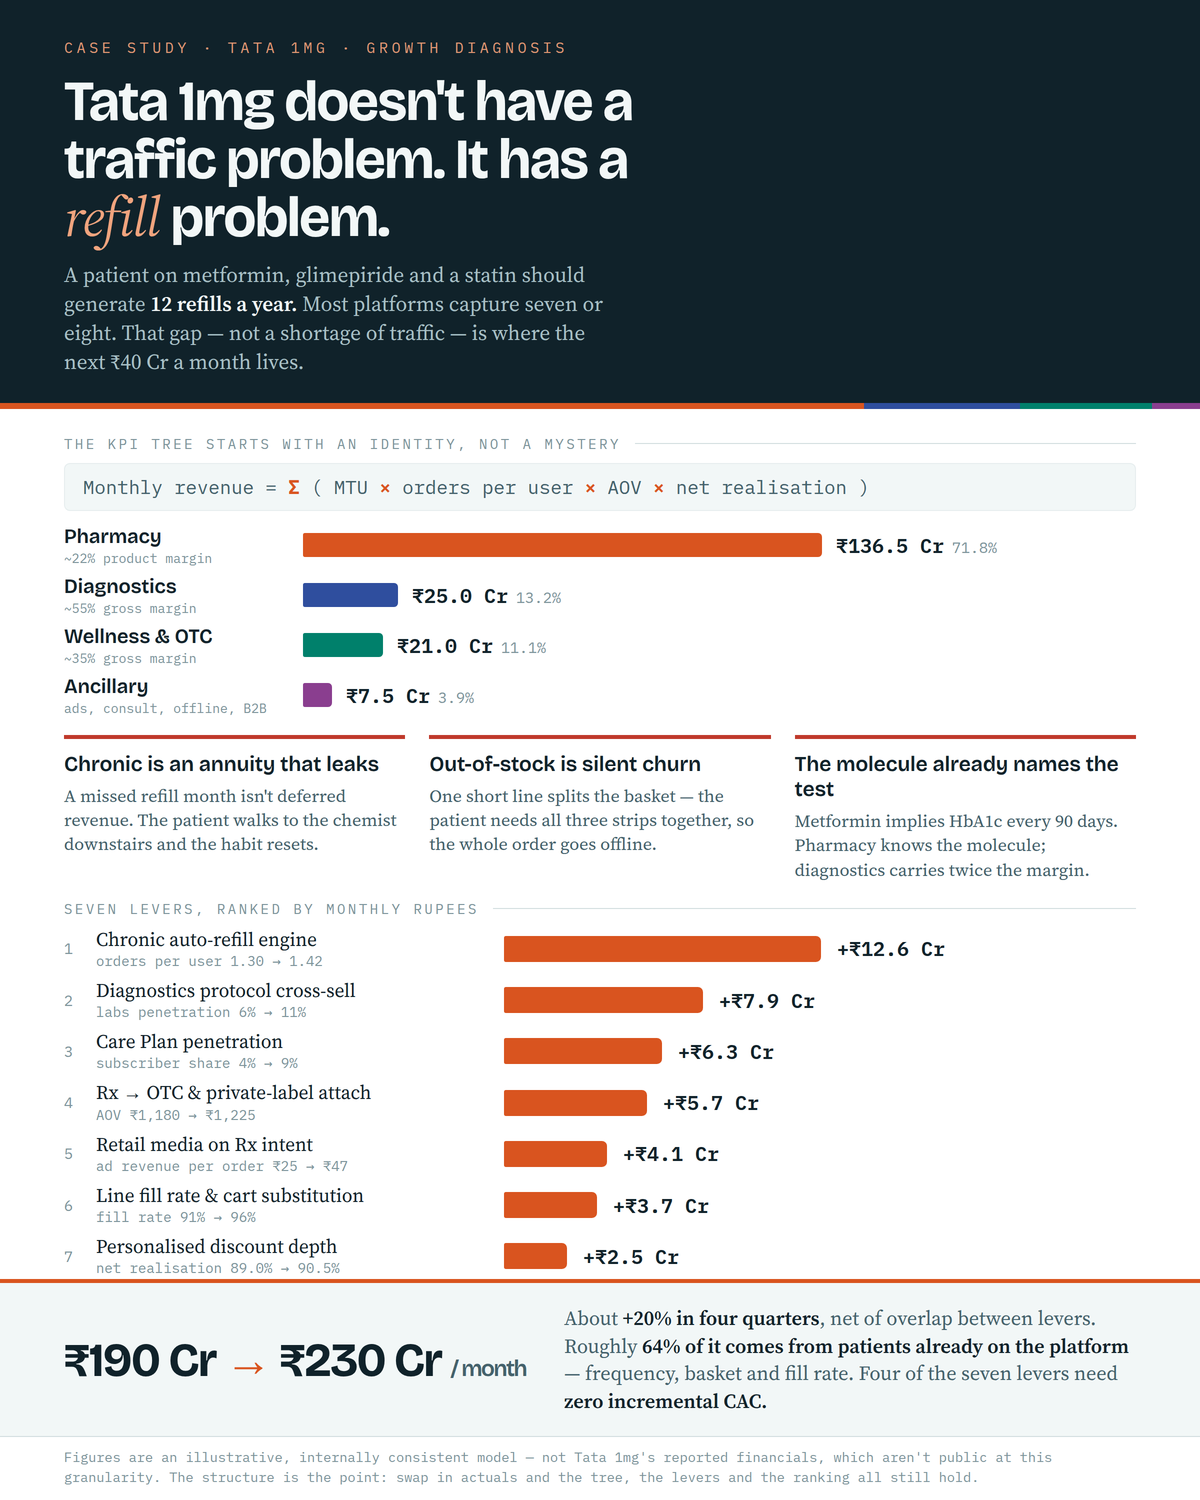
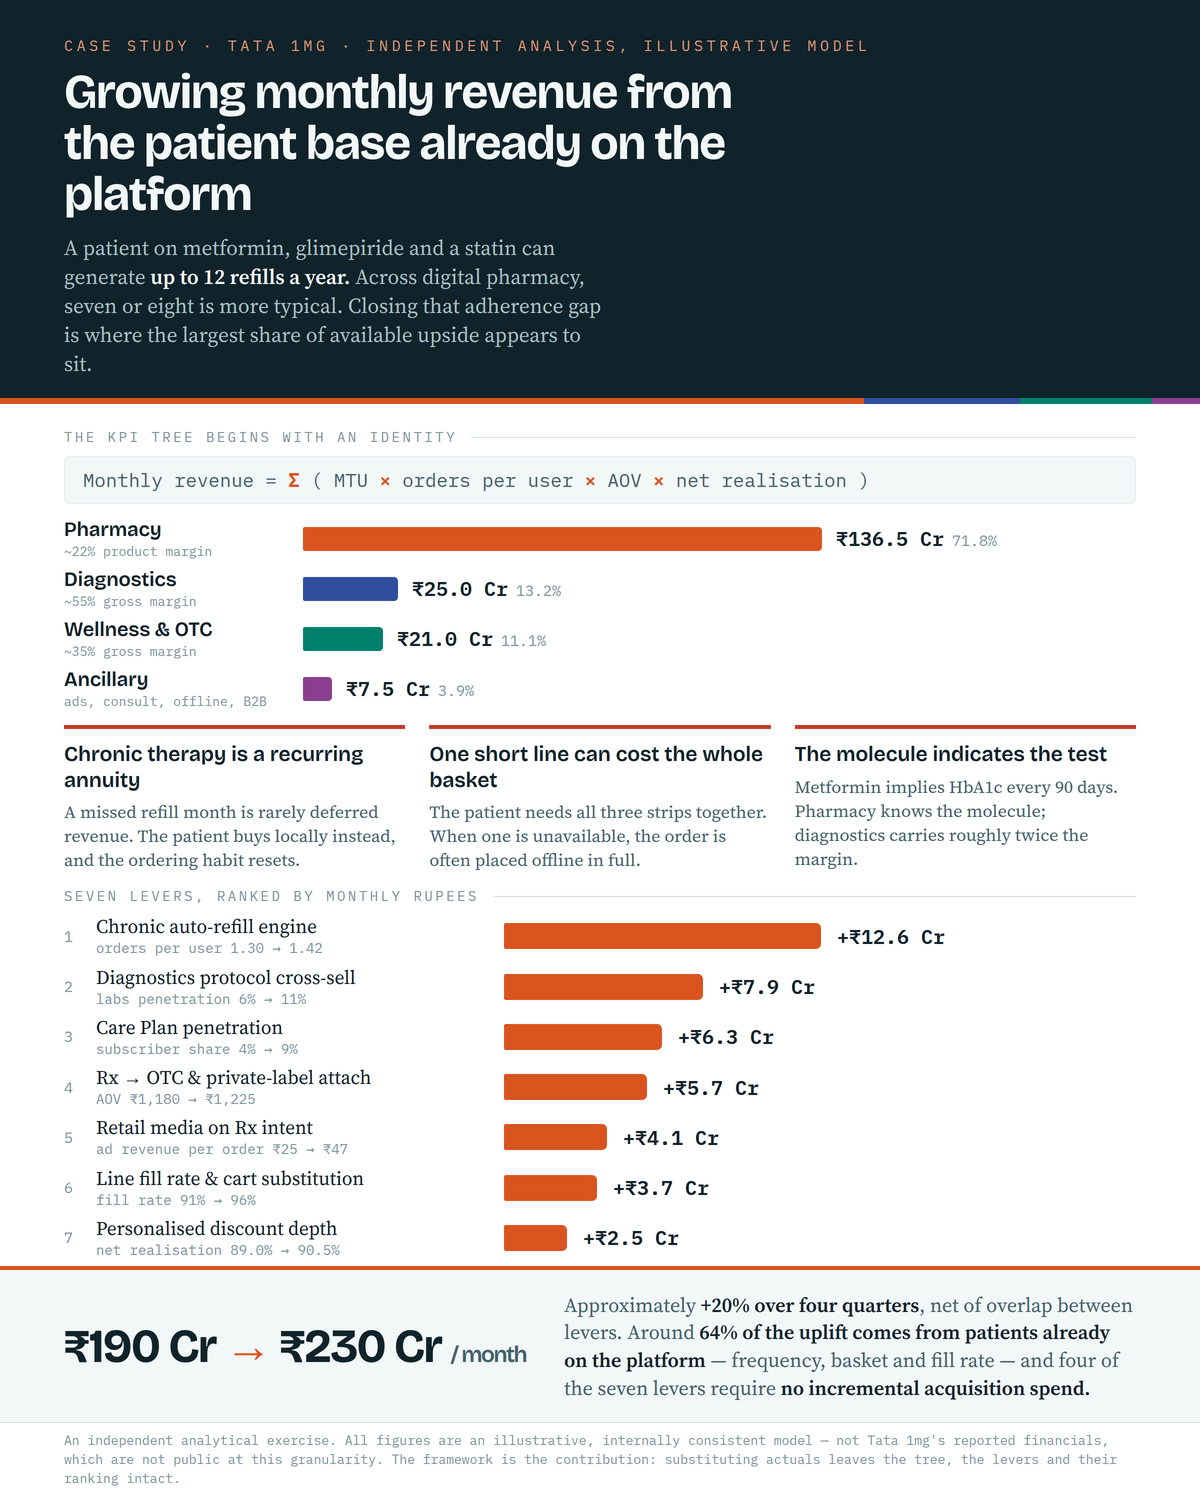
Reframe the LinkedIn card in a neutral, formal register
Replaces the pointed headline and fact framing with analytical
phrasing, and marks the piece explicitly as an independent exercise
built on an illustrative model. Analysis, figures and lever ranking
are unchanged.

Claude-Session: https://claude.ai/code/session_01W3L7xjeRmcB1ayUa8zLGpZ

Changed region(s): [[0.0, 0.0307, 1.0, 1.0], [0.0308, 0.8893, 0.4317, 0.92]]

diff --git a/tata-1mg/linkedin-card.html b/tata-1mg/linkedin-card.html
@@ -12,17 +12,17 @@ body{width:1200px;height:1500px;background:#fff;font-family:var(--serif);color:v
 .card{width:1200px;height:1500px;display:flex;flex-direction:column}
 
 /* header */
-.hero{background:var(--ink);color:#F2F7F7;padding:38px 64px 32px;position:relative}
+.hero{background:var(--ink);color:#F2F7F7;padding:36px 64px 26px;position:relative}
 .hero::after{content:"";position:absolute;left:0;right:0;bottom:0;height:6px;
   background:linear-gradient(90deg,var(--s1) 0 72%,var(--s2) 72% 85%,var(--s3) 85% 96%,var(--s4) 96% 100%)}
-.eyebrow{font-family:var(--mono);font-size:15px;letter-spacing:.24em;text-transform:uppercase;color:#E09773;margin-bottom:16px}
-h1{font-family:var(--sans);font-weight:700;font-size:56px;line-height:1.03;letter-spacing:-.028em;max-width:19ch}
+.eyebrow{font-family:var(--mono);font-size:15px;letter-spacing:.24em;text-transform:uppercase;color:#E09773;margin-bottom:12px}
+h1{font-family:var(--sans);font-weight:700;font-size:48px;line-height:1.06;letter-spacing:-.024em;max-width:24ch}
 h1 em{font-family:var(--serif);font-style:italic;font-weight:400;color:#F0A47E}
 .sub{font-size:21px;line-height:1.38;color:#A8C0C6;margin-top:14px;max-width:52ch}
 .sub b{color:#F2F7F7;font-weight:600}
 
 /* body */
-.body{padding:26px 64px 0;flex:1;display:flex;flex-direction:column;gap:18px}
+.body{padding:24px 64px 0;flex:1;display:flex;flex-direction:column;gap:15px}
 .lbl{font-family:var(--mono);font-size:14px;letter-spacing:.18em;text-transform:uppercase;color:var(--muted);
   display:flex;align-items:center;gap:14px;margin-bottom:10px}
 .lbl::after{content:"";flex:1;height:1px;background:var(--line)}
@@ -46,7 +46,7 @@ h1 em{font-family:var(--serif);font-style:italic;font-weight:400;color:#F0A47E}
 .fact p{font-size:17.5px;line-height:1.38;color:var(--ink2)}
 
 /* levers */
-.bars{display:grid;gap:9px}
+.bars{display:grid;gap:8px}
 .row{display:flex;align-items:center;gap:16px}
 .row .rk{font-family:var(--mono);font-size:15px;color:var(--muted);width:16px;flex:none}
 .row .nm{font-size:19px;width:392px;flex:none;line-height:1.22}
@@ -62,20 +62,20 @@ h1 em{font-family:var(--serif);font-style:italic;font-weight:400;color:#F0A47E}
 .result .big em{font-style:normal;color:var(--acc)}
 .result .txt{font-size:20px;line-height:1.38;color:var(--ink2);flex:1}
 .result .txt b{color:var(--ink);font-weight:600}
-.note{font-family:var(--mono);font-size:13.5px;color:var(--muted);line-height:1.5;padding:10px 64px 13px;border-top:1px solid var(--line)}
+.note{font-family:var(--mono);font-size:13px;color:var(--muted);line-height:1.46;padding:9px 64px 11px;border-top:1px solid var(--line)}
 </style></head><body>
 <div class="card">
 
   <div class="hero">
-    <div class="eyebrow">Case study · Tata 1mg · Growth diagnosis</div>
-    <h1>Tata 1mg doesn't have a traffic problem. It has a <em>refill</em> problem.</h1>
-    <p class="sub">A patient on metformin, glimepiride and a statin should generate <b>12 refills a year.</b> Most platforms capture seven or eight. That gap — not a shortage of traffic — is where the next ₹40 Cr a month lives.</p>
+    <div class="eyebrow">Case study · Tata 1mg · Independent analysis, illustrative model</div>
+    <h1>Growing monthly revenue from the patient base already on the platform</h1>
+    <p class="sub">A patient on metformin, glimepiride and a statin can generate <b>up to 12 refills a year.</b> Across digital pharmacy, seven or eight is more typical. Closing that adherence gap is where the largest share of available upside appears to sit.</p>
   </div>
 
   <div class="body">
 
     <div>
-      <div class="lbl">The KPI tree starts with an identity, not a mystery</div>
+      <div class="lbl">The KPI tree begins with an identity</div>
       <div class="eq">Monthly revenue = <em>Σ</em> ( MTU <em>×</em> orders per user <em>×</em> AOV <em>×</em> net realisation )</div>
       <div class="lines">
         <div class="ln"><div class="nm">Pharmacy<span>~22% product margin</span></div><div class="b" style="width:519px;background:var(--s1)"></div><div class="amt">₹136.5 Cr<i>71.8%</i></div></div>
@@ -86,9 +86,9 @@ h1 em{font-family:var(--serif);font-style:italic;font-weight:400;color:#F0A47E}
     </div>
 
     <div class="facts">
-      <div class="fact"><h3>Chronic is an annuity that leaks</h3><p>A missed refill month isn't deferred revenue. The patient walks to the chemist downstairs and the habit resets.</p></div>
-      <div class="fact"><h3>Out-of-stock is silent churn</h3><p>One short line splits the basket — the patient needs all three strips together, so the whole order goes offline.</p></div>
-      <div class="fact"><h3>The molecule already names the test</h3><p>Metformin implies HbA1c every 90 days. Pharmacy knows the molecule; diagnostics carries twice the margin.</p></div>
+      <div class="fact"><h3>Chronic therapy is a recurring annuity</h3><p>A missed refill month is rarely deferred revenue. The patient buys locally instead, and the ordering habit resets.</p></div>
+      <div class="fact"><h3>One short line can cost the whole basket</h3><p>The patient needs all three strips together. When one is unavailable, the order is often placed offline in full.</p></div>
+      <div class="fact"><h3>The molecule indicates the test</h3><p>Metformin implies HbA1c every 90 days. Pharmacy knows the molecule; diagnostics carries roughly twice the margin.</p></div>
     </div>
 
     <div>
@@ -108,8 +108,8 @@ h1 em{font-family:var(--serif);font-style:italic;font-weight:400;color:#F0A47E}
 
   <div class="result">
     <div class="big">₹190 Cr <em>→</em> ₹230 Cr <small>/ month</small></div>
-    <div class="txt">About <b>+20% in four quarters</b>, net of overlap between levers. Roughly <b>64% of it comes from patients already on the platform</b> — frequency, basket and fill rate. Four of the seven levers need <b>zero incremental CAC.</b></div>
+    <div class="txt">Approximately <b>+20% over four quarters</b>, net of overlap between levers. Around <b>64% of the uplift comes from patients already on the platform</b> — frequency, basket and fill rate — and four of the seven levers require <b>no incremental acquisition spend.</b></div>
   </div>
-  <div class="note">Figures are an illustrative, internally consistent model — not Tata 1mg's reported financials, which aren't public at this granularity. The structure is the point: swap in actuals and the tree, the levers and the ranking all still hold.</div>
+  <div class="note">An independent analytical exercise. All figures are an illustrative, internally consistent model — not Tata 1mg's reported financials, which are not public at this granularity. The framework is the contribution: substituting actuals leaves the tree, the levers and their ranking intact.</div>
 
 </div></body></html>
